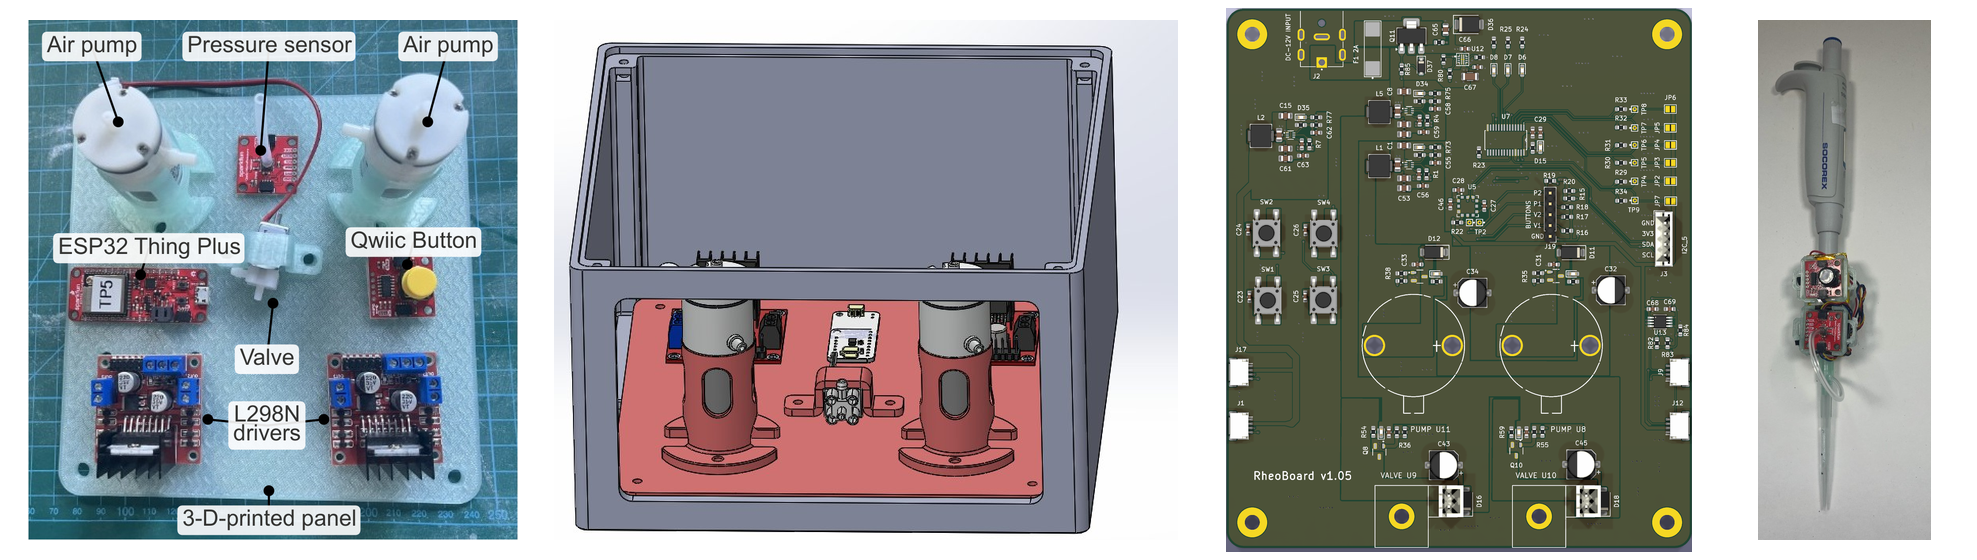
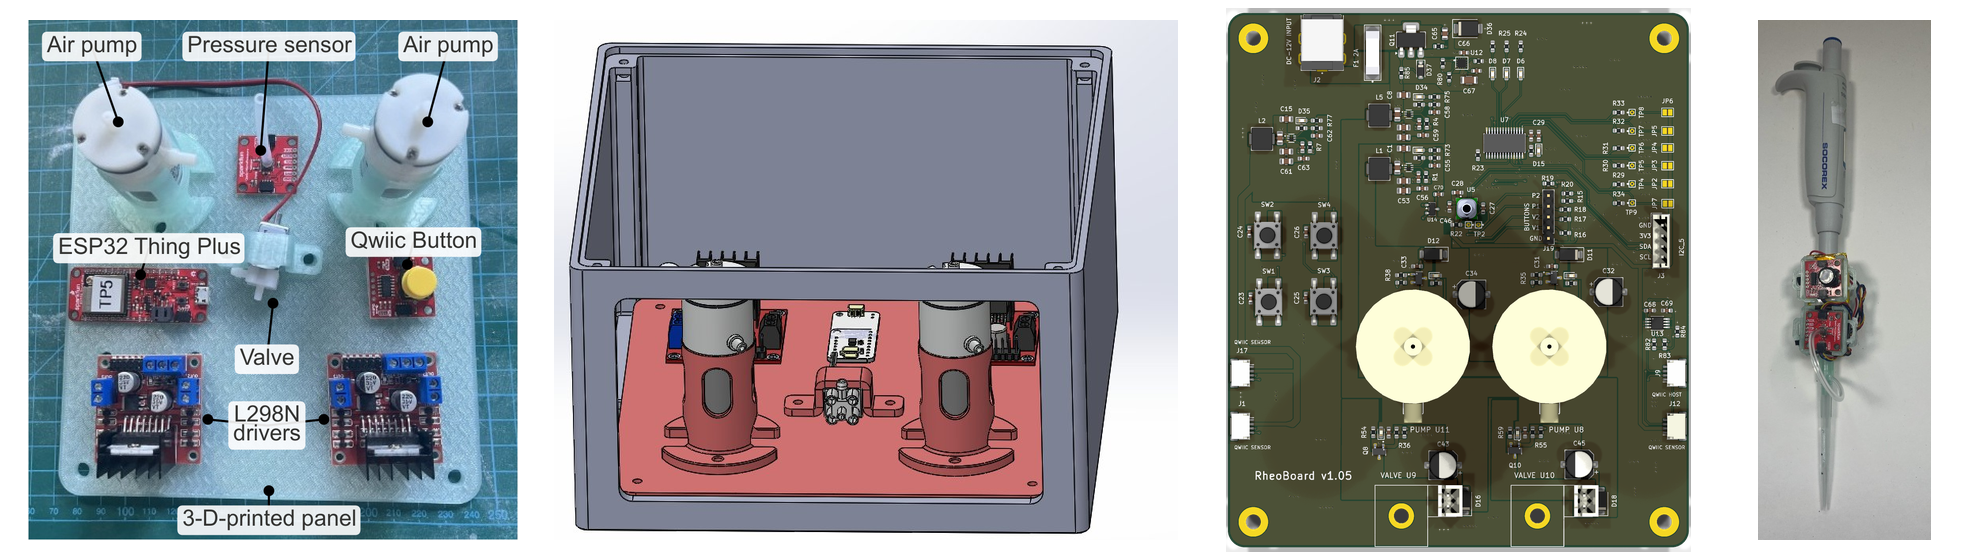
Refresh PCB images and captions for current v1.05 design

Changed region(s): [[0.6171, 0.0, 0.8639, 1.0], [0.6171, 0.7286, 0.6788, 0.8804]]

diff --git a/docs/img/README.md b/docs/img/README.md
@@ -1,3 +1,3 @@
 # Images
 
-Photos and figures for the public pages. Component photos support the [Parts to buy](https://github.com/The-Hybrid-Atelier/RheoBoard/wiki/Parts-to-buy) wiki page, and the source notes for these files are kept with the wiki images. Part folders are `air-pump-4699/`, `air-valve-4663/`, `attiny1616-seesaw/`, `battery-prt-26059/`, `esp32-thing-plus/`, `l298n/`, `power-adapter-alt-1202/`, `qwiic-button/`, `qwiic-micropressure/`, `silicone-tube-4661/`, `qwiic-cable/`, `micro-usb-cable/`, `ftllb220-6005/`, `gl45-bottle/`, and `teaser/`. `panel/` and `portable/` hold the panel and portable figures (`rheopipette.jpg`, `thing_plus_tray.png`, `micropressure_tray.png`, and `battery_tray.png`), and `home-versions.png` is the home figure. The third panel is an October 25, 2026 v1.05 board snapshot, before the valve-rail and sensor-reset changes; current drawings are indexed in the [PCB README](../../RheoBoard_PCB/README.md). The fourth panel of that figure is the current RheoPipette photo. `hybrid-atelier-logo.png` is The Hybrid Atelier mark after the author line on the repository README. `rep-sensing-method.jpg` is the sensing-method diagram, `rep-how-a-rep-looks.jpg` is the chart on How a REP looks, `rep-pressure-trace.jpg` is an earlier pressure trace, `rep-bench.jpg` is the bench photo, `rep-sensing-and-bench.jpg` is an older side-by-side pair; the wiki shows the diagram and the bench photo as two pictures, and `rep-phase-schematic.jpg` is the phase schematic. The certification marks in this folder are `oshwa-certification-mark-US002865-wide.svg`, `oshwa-certification-mark-US002865-stacked.svg`, and `oshwa-license-facts.svg`. Vendor photos stay under their owners' terms.
+Photos and figures for the public pages. Component photos support the [Parts to buy](https://github.com/The-Hybrid-Atelier/RheoBoard/wiki/Parts-to-buy) wiki page, and the source notes for these files are kept with the wiki images. Part folders are `air-pump-4699/`, `air-valve-4663/`, `attiny1616-seesaw/`, `battery-prt-26059/`, `esp32-thing-plus/`, `l298n/`, `power-adapter-alt-1202/`, `qwiic-button/`, `qwiic-micropressure/`, `silicone-tube-4661/`, `qwiic-cable/`, `micro-usb-cable/`, `ftllb220-6005/`, `gl45-bottle/`, and `teaser/`. `panel/` and `portable/` hold the panel and portable figures (`rheopipette.jpg`, `thing_plus_tray.png`, `micropressure_tray.png`, and `battery_tray.png`), and `home-versions.png` is the home figure. The third panel is a native KiCad render of the current v1.05 board, updated October 29, 2026; current drawings are indexed in the [PCB README](../../RheoBoard_PCB/README.md). The fourth panel of that figure is the current RheoPipette photo. `hybrid-atelier-logo.png` is The Hybrid Atelier mark after the author line on the repository README. `rep-sensing-method.jpg` is the sensing-method diagram, `rep-how-a-rep-looks.jpg` is the chart on How a REP looks, `rep-pressure-trace.jpg` is an earlier pressure trace, `rep-bench.jpg` is the bench photo, `rep-sensing-and-bench.jpg` is an older side-by-side pair; the wiki shows the diagram and the bench photo as two pictures, and `rep-phase-schematic.jpg` is the phase schematic. The certification marks in this folder are `oshwa-certification-mark-US002865-wide.svg`, `oshwa-certification-mark-US002865-stacked.svg`, and `oshwa-license-facts.svg`. Vendor photos stay under their owners' terms.

diff --git a/docs/build-options.md b/docs/build-options.md
@@ -8,6 +8,6 @@ Pictures from this repository used with that page:
 - [`pcb-v105-schematic-and-board.png`](../RheoBoard_PCB/images/pcb-v105-schematic-and-board.png)
 - [`rheopipette.jpg`](../BuildYourOwn/RheoPipette/rheopipette.jpg)
 
-The PCB composite is an October 25, 2026 snapshot, before the valve-rail and sensor-reset changes. Current drawings and board files are indexed in [`README.md`](../RheoBoard_PCB/README.md). Firmware compatibility is described in the [firmware reference](../code/firmware/README.md).
+The PCB composite was rendered from the current v1.05 schematic and front-copper drawings on October 29, 2026, including the valve-rail and sensor-reset changes. Current drawings and board files are indexed in [`README.md`](../RheoBoard_PCB/README.md). Firmware compatibility is described in the [firmware reference](../code/firmware/README.md).
 
 RheoPipette CAD is in [`RheoPipette_CAD`](../BuildYourOwn/RheoPipette/RheoPipette_CAD/). Print notes are on the [Portable parts to 3D print](https://github.com/The-Hybrid-Atelier/RheoBoard/wiki/Portable-parts-to-3D-print) wiki page.
